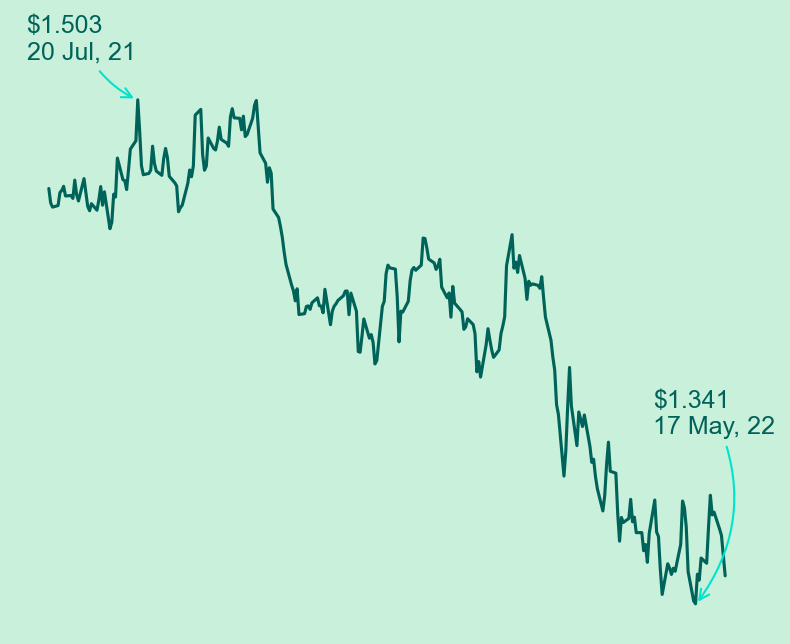
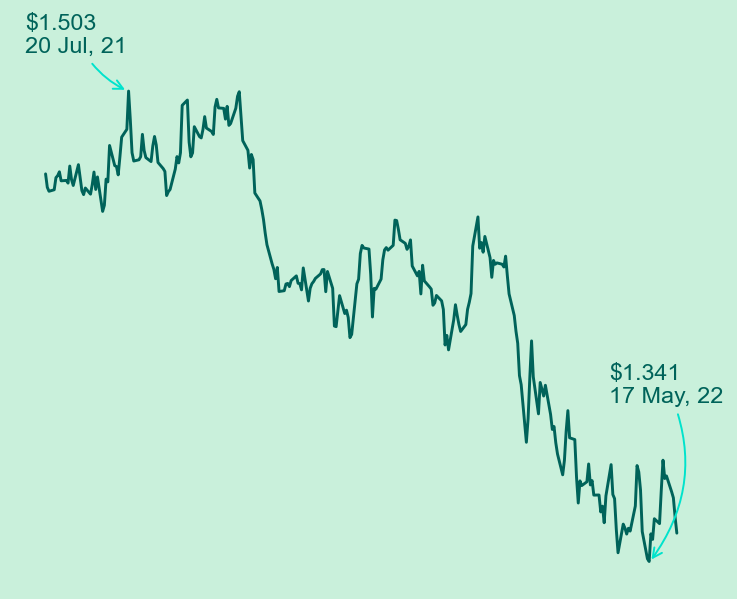
cleaned up selection boxes

diff --git a/cad_eur_charts.py b/cad_eur_charts.py
@@ -89,7 +89,7 @@ def eur_can_chart():
 
     plt.savefig('images/euro_can_high_low_chart.png',
                 bbox_inches='tight',
-                dpi=150,
+                dpi=140,
                 facecolor='#C9F0DB',
                 transparent=True)
     plt.close();
@@ -163,7 +163,7 @@ def can_eur_chart():
     plt.tight_layout()
     plt.savefig('images/can_euro_high_low_chart.png',
                 bbox_inches='tight',
-                dpi=150,
+                dpi=140,
                 facecolor='#C9F0DB',
                 transparent=True)
     plt.close();
@@ -236,7 +236,7 @@ def usd_can_chart():
 
     plt.savefig('images/usd_can_high_low_chart.png',
                 bbox_inches='tight',
-                dpi=150,
+                dpi=140,
                 facecolor='#C9F0DB',
                 transparent=True)
     plt.close();
@@ -308,7 +308,7 @@ def can_usd_chart():
 
     plt.savefig('images/can_usd_high_low_chart.png',
                 bbox_inches='tight',
-                dpi=150,
+                dpi=140,
                 facecolor='#C9F0DB',
                 transparent=True)
     plt.close();
@@ -379,7 +379,7 @@ def gbp_can_chart():
 
     plt.savefig('images/gbp_can_high_low_chart.png',
                 bbox_inches='tight',
-                dpi=150,
+                dpi=140,
                 facecolor='#C9F0DB',
                 transparent=True)
     plt.close();
@@ -456,7 +456,7 @@ def can_gbp_chart():
 
     plt.savefig('images/can_gbp_high_low_chart.png',
                 bbox_inches='tight',
-                dpi=150,
+                dpi=140,
                 facecolor='#C9F0DB',
                 transparent=True)
     plt.close();

diff --git a/main.py b/main.py
@@ -117,7 +117,7 @@ currencies = ['CADGBP=X','GBPCAD=X', 'CADUSD=X', 'USDCAD=X','CADEUR=X', 'EURCAD=
 #st.title("Enter Title Here:")
 
 ## Horizontal Menu Bar
-choose = option_menu("Select to view updated exchange rate", ['CAD-EUR', 'CAD-US', 'CAD-GBP'],
+choose = option_menu("Select to view updated exchange rate", ['CAD-EUR', 'CAD-USD', 'CAD-GBP'],
                      icons=['currency-euro', 'currency-dollar', 'currency-pound'],
                      menu_icon="app-indicator", default_index=0,
                      styles={
